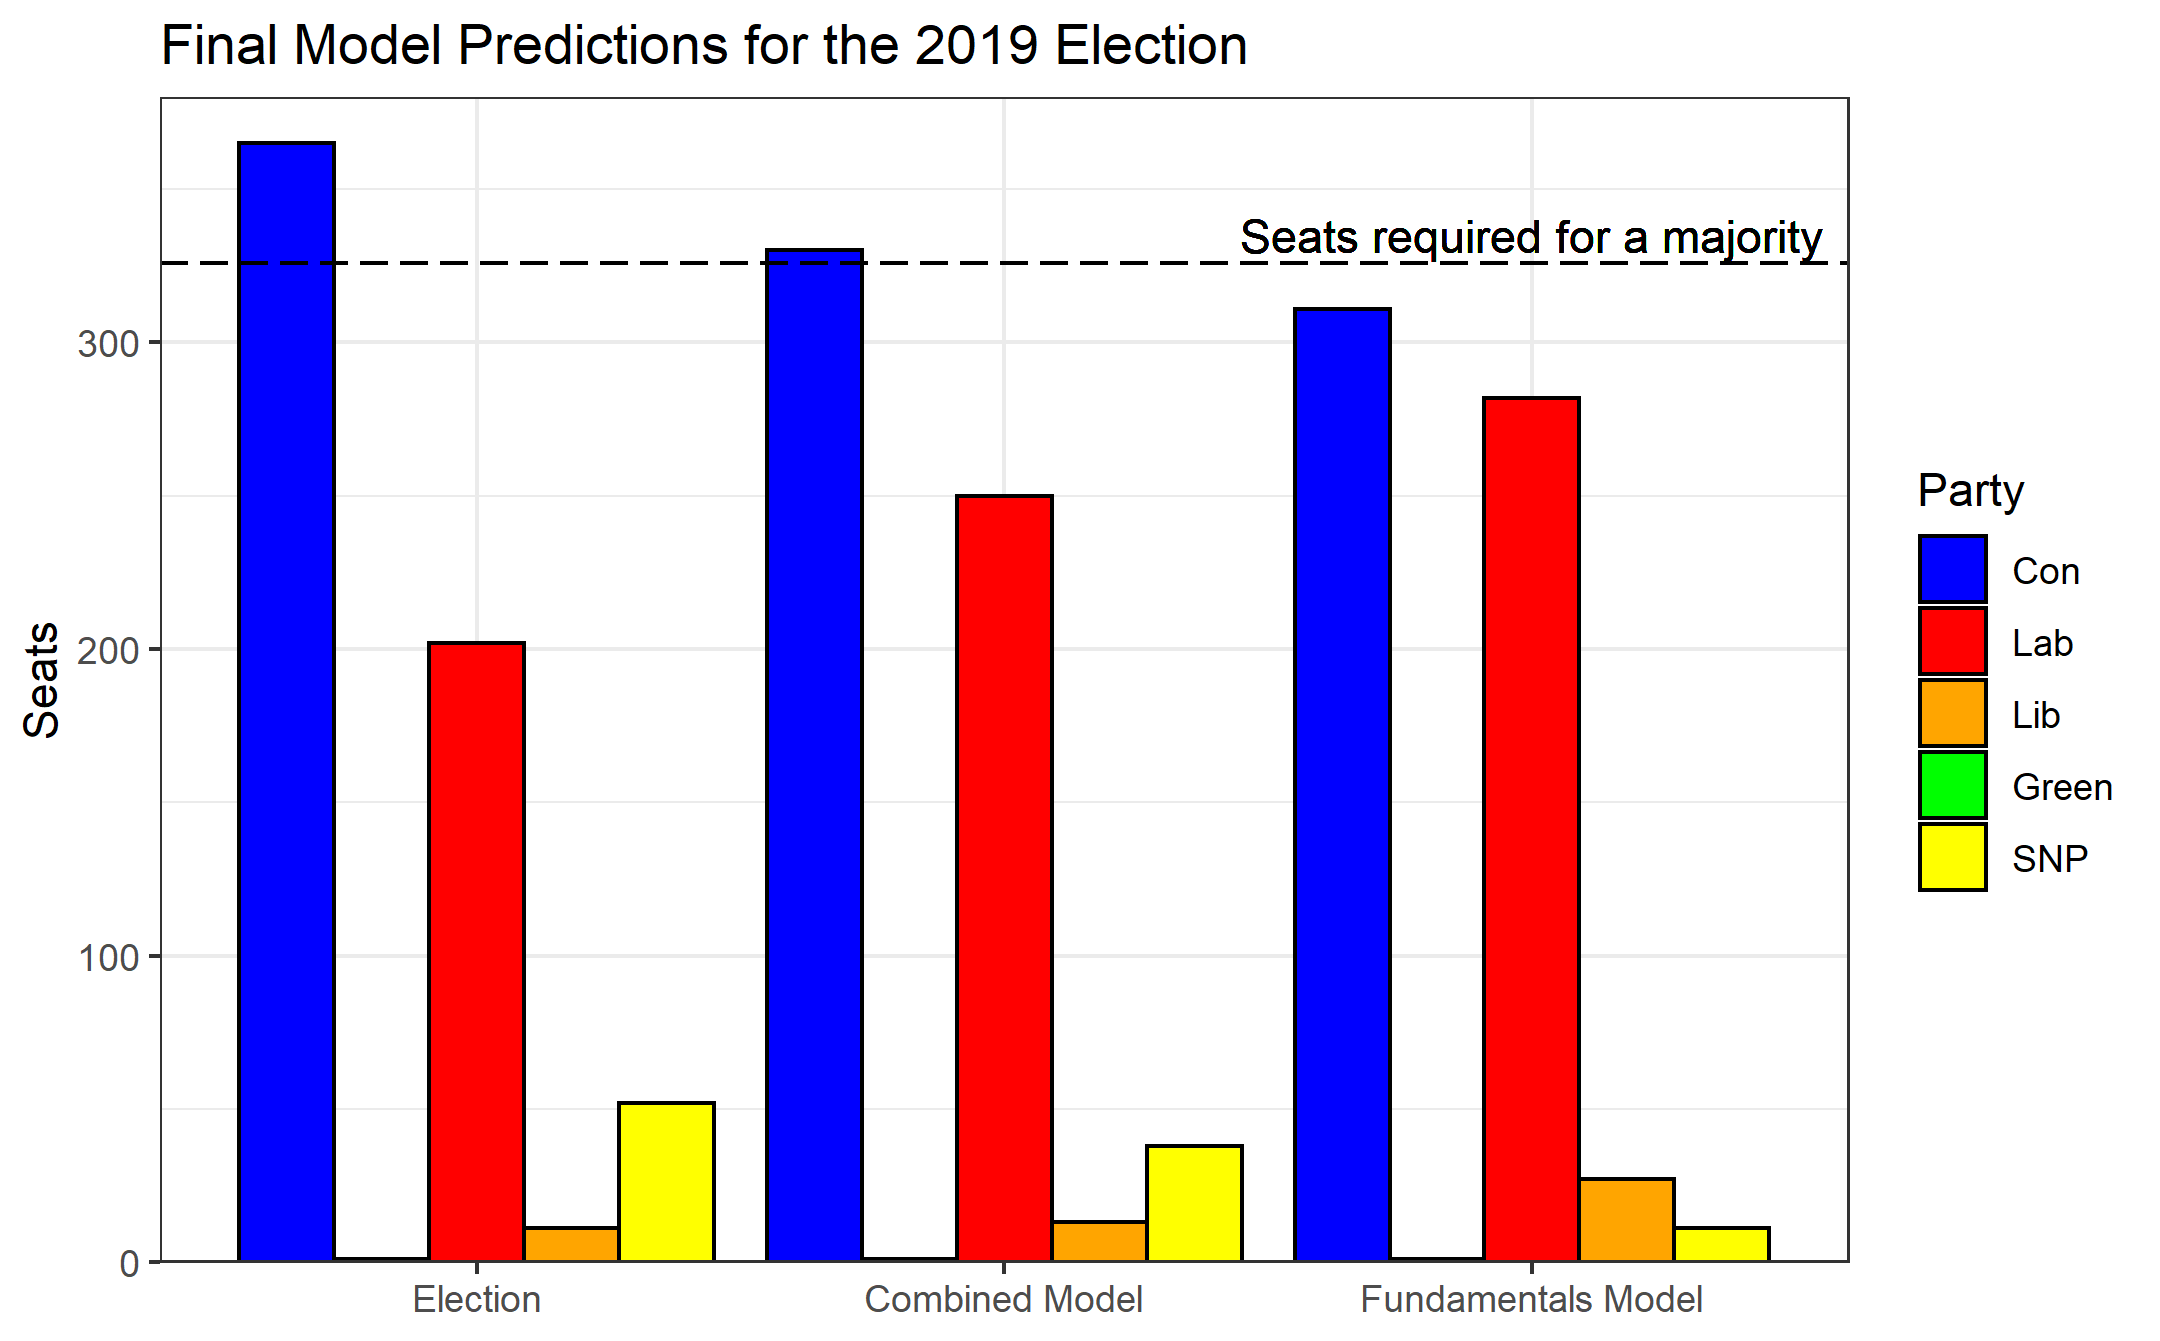
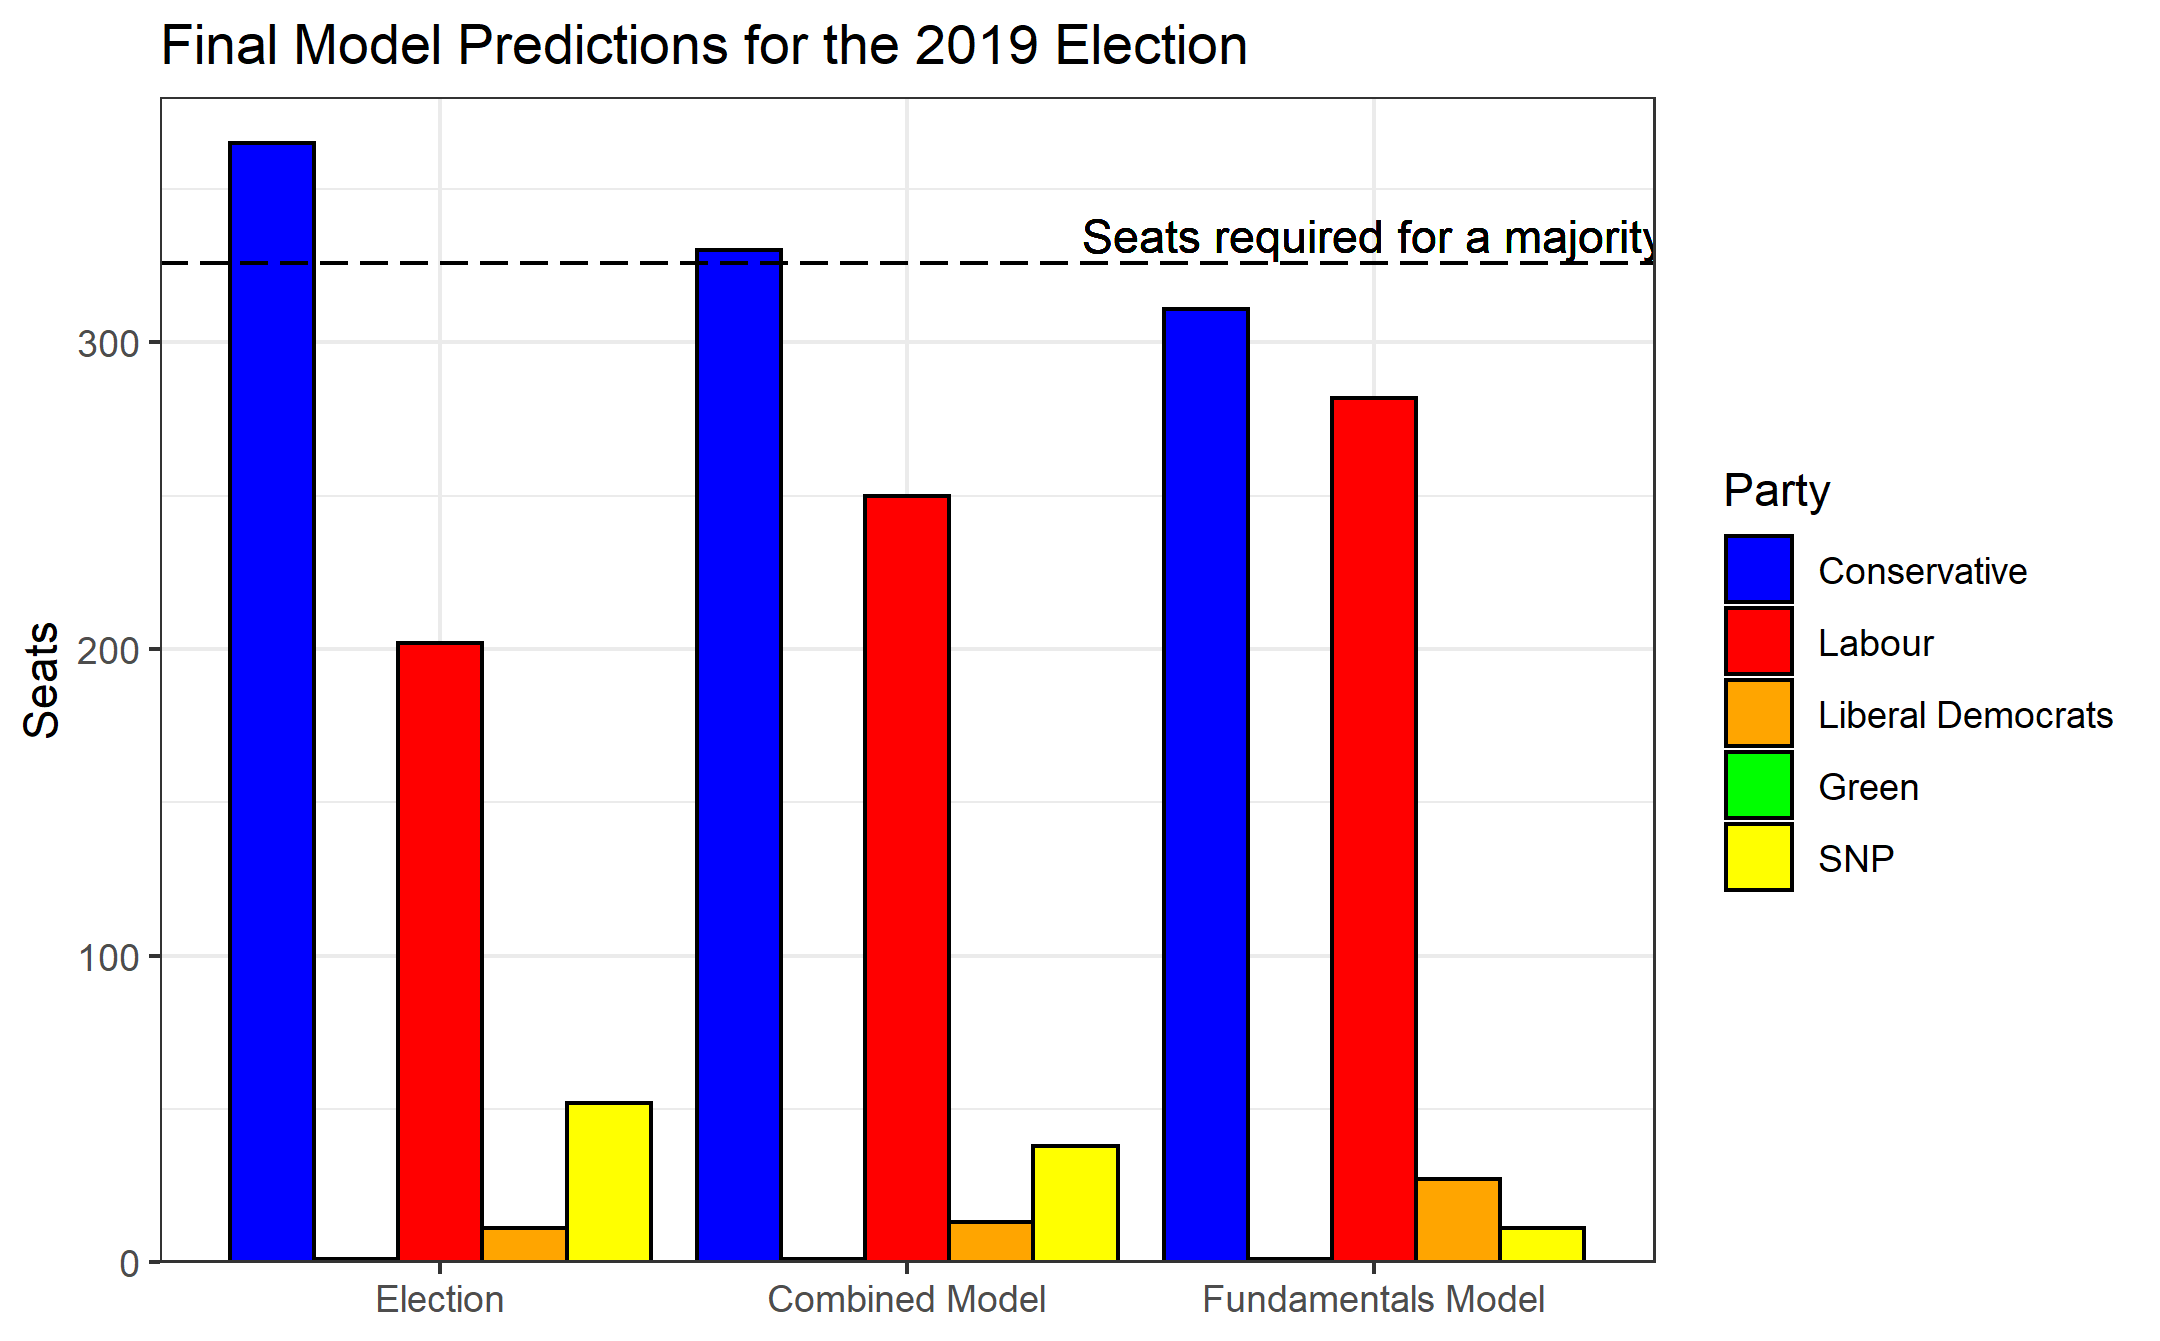
Updating the graphics for the article

Changed region(s): [[0.0931, 0.0917, 0.8685, 0.9784], [0.7755, 0.3363, 0.9926, 0.6726]]

diff --git a/html/elections.html b/html/elections.html
@@ -61,7 +61,7 @@
                         <p>How would you predict an election? Elections are events with far-reaching consequences, but how would you predict one.</p>
                         <h1>Votes or Seats</h1>
                         <p>One potential method is to predict the number of votes earned by each party. Whichever party wins the most votes is the forecast winner. But just because a party, or candidate, earns more votes than another doesn't necessarily mean that that they'll be in government at the conclusion of the election. Examples of this are easy to come by, especially from the USA. In the UK too, vote share doesn't necessarily correlate with the number of seats won by each party. As the graph below should testify.</p>
-                        <img class="img-fluid" src="/images/outcome_plot.png" width="700" height="300">
+                        <img class="img-fluid" src="/images/elect_outcome.png" width="700" height="300">
                         <p>It is interesting to note from this graph, that while three majority governments were formed between 2005-19. No party has received over a majority of the votes cast in any election during this period. Therefore showcasing the importance of focussing on seats as the predictor.</p>
                         <h1>The Fundamentals Approach</h1>
                         <p>When practitioners are forecasting an election, they will often begin with the 'fundamentals'. These include socio-economic and demographic variables that we expect to have an impact on voting behaviour. The rationlity being that we would expect areas with a younger population to vote differently than those with an older population, richer different than poorer, etc. For this model, I have constructed variables using the following data:</p>
@@ -76,7 +76,7 @@
                         <h1>Polling and Models</h1>
                         <p>Now we have a basic model from the fundementals approach, we can then further refine the model using polling data. But how good are the polls? For example, here is the polling data leading up to the 2005 election.</p>
                         <img class="img-fluid" src="/images/poll_plot2005.png" width="700" height="300">
-                        <p>Looking at the polling, the race seemed pretty steady with Labour in the lead all the way until election day. The polls even correctly predicted the vote shares for both the Liberal Democrats and combined other parties, as both final results were within their LOESS model's standard errors. However, the models for the Labour and Conservative Parties missed the mark, perhaps owing to late swings from the former to the latter at the polling booth.</p>
+                        <p>Looking at the polling, the race seemed pretty steady with Labour in the lead all the way until election day. The polls even correctly predicted the vote shares for both the Liberal Democrats and combined other parties, as both final results were within their LOESS model's standard errors. However, the models for the Labour and Conservative parties missed the mark, perhaps owing to late swings from the former to the latter at the polling booth.</p>
                         <p>Not all races are as stable as the election of 2005 however. Indeed more recent elections have exposed some of the issues with forecasting elections using polls. Take the polling for the 2010 election dispayed below.</p>
                         <img class="img-fluid" src="/images/poll_plot2010.png" width="700" height="300">
                         <p>As we can see, not only did the polls fail to predict the voteshares for all but the combined other parties. What's more, the polls also got the order of the parties wrong. As they predicted that the Liberal Democrats would come second, not Labour as was the case on election day.</p>
